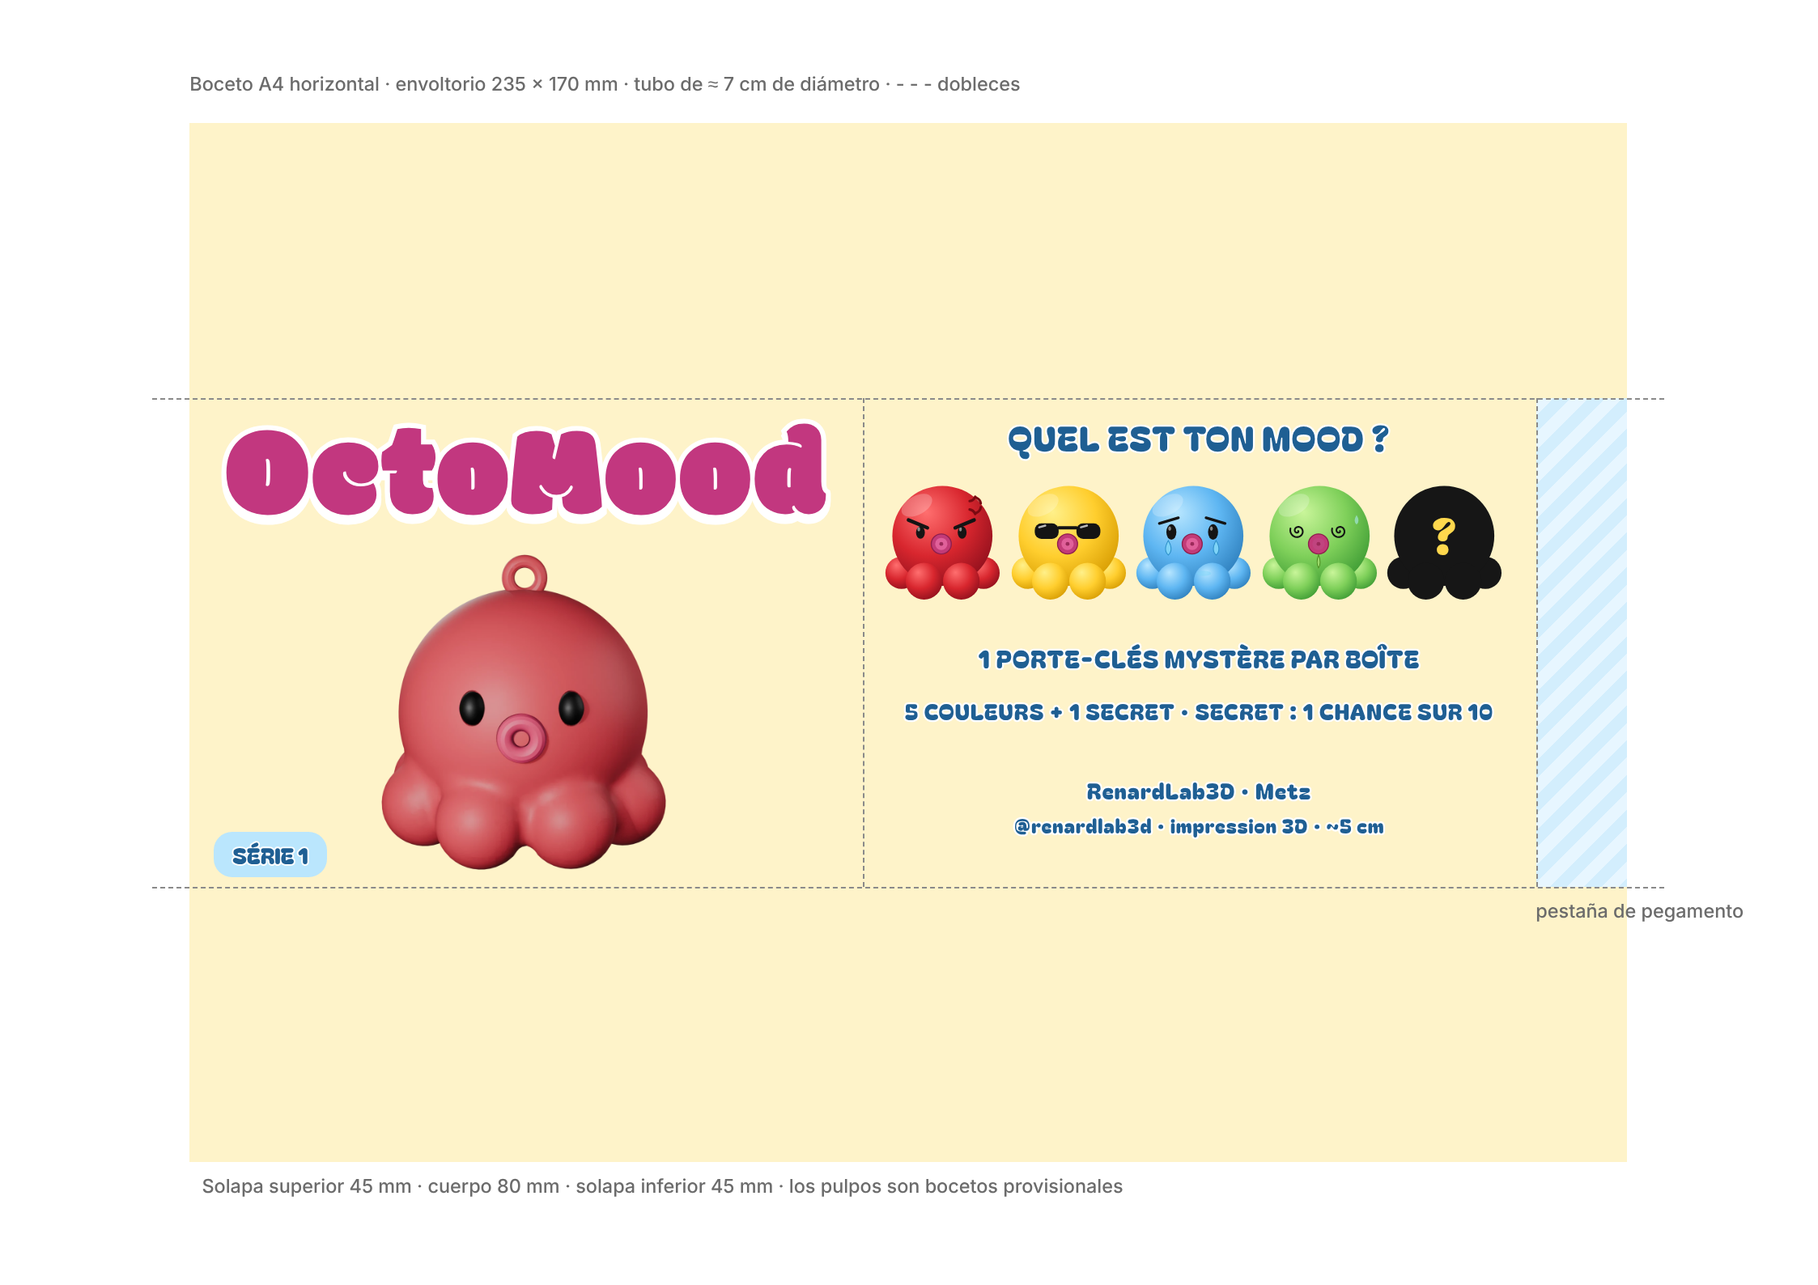
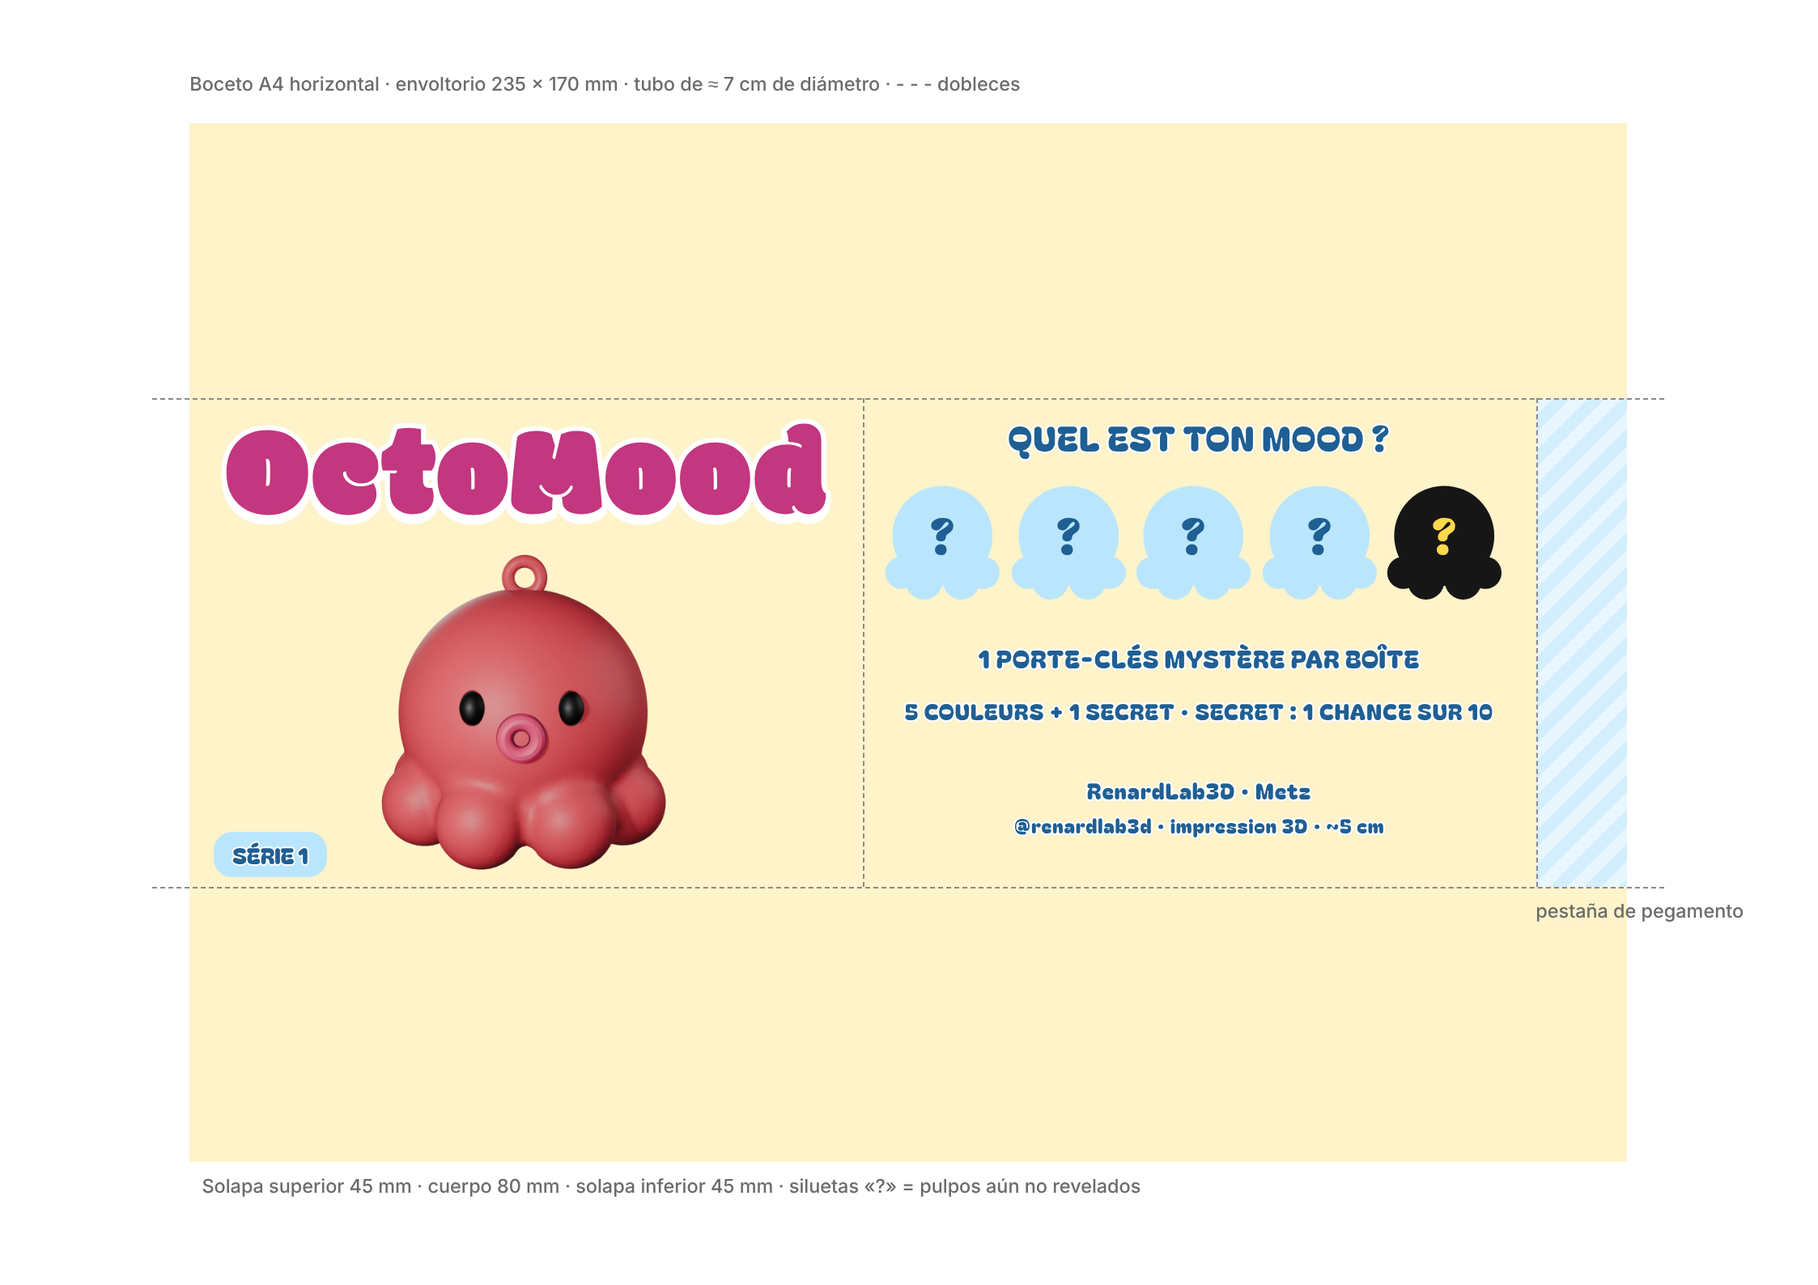
Wrapper: silhouettes for octopuses not yet revealed
Claude-Session: https://claude.ai/code/session_01AQMCNjGQ1RjZg5f4v5YFio

Changed region(s): [[0.4675, 0.3703, 0.7792, 0.4628], [0.561, 0.8948, 0.6233, 0.9257], [0.4363, 0.8948, 0.4987, 0.9257]]

diff --git a/pulpos-mystery-box/diseno/envoltorio-plano.html b/pulpos-mystery-box/diseno/envoltorio-plano.html
@@ -13,4 +13,4 @@ body { font-family: Inter, sans-serif; background: #fff; }
 .foldv { border-left: .3mm dashed #8a8a8a; }
 .bubble { position: absolute; border-radius: 50%; border: .5mm solid rgba(255,255,255,.9); background: rgba(255,255,255,.35); }
 .pill { background: #BAE6FD; color: #1F5F93; -webkit-text-stroke: .5mm #FFFFFF; paint-order: stroke fill; font-family: var(--f); font-size: 3.6mm; padding: 1mm 3mm; border-radius: 3mm; }
-</style><div class="a" style="left:31mm;top:20mm;width:235mm;height:170mm;background:#FEF3C9"></div><div class="a" style="left:251mm;top:65mm;width:15mm;height:80mm;background:repeating-linear-gradient(135deg,#e7f6ff 0 2mm,#d3eefd 2mm 4mm)"></div><div class="a" style="left:31mm;top:65mm;width:110mm;height:80mm"><div class="a pill" style="left:4mm;top:71mm">SÉRIE 1</div><div class="a" style="left:0;top:2mm;width:110mm"><div class="title" style="font-size:21mm">OctoMood</div></div><div class="a panel" style="left:28mm;top:25mm;width:53mm;height:53mm"><img src="pulpos/rosa.png" alt="rosa"></div></div><div class="a" style="left:141mm;top:65mm;width:110mm;height:80mm"><div class="a small" style="left:0;top:3mm;width:110mm;font-size:5.6mm">QUEL EST TON MOOD ?</div><div class="a panel" style="left:3.0mm;top:14mm;width:20mm;height:20mm"><svg viewBox="40 8 440 440" xmlns="http://www.w3.org/2000/svg"><defs><radialGradient id="g4" cx="40%" cy="35%" r="72%" fx="34%" fy="26%"><stop offset="0" stop-color="#FF6F6F"/><stop offset=".55" stop-color="#D8262E"/><stop offset="1" stop-color="#8E0F1C"/></radialGradient><radialGradient id="g5" cx="40%" cy="35%" r="72%" fx="34%" fy="26%"><stop offset="0" stop-color="#FF6F6F"/><stop offset=".55" stop-color="#D8262E"/><stop offset="1" stop-color="#8E0F1C"/></radialGradient><radialGradient id="g6" cx="40%" cy="35%" r="72%" fx="34%" fy="26%"><stop offset="0" stop-color="#FF6F6F"/><stop offset=".55" stop-color="#D8262E"/><stop offset="1" stop-color="#8E0F1C"/></radialGradient></defs><circle cx="115" cy="328" r="58" fill="url(#g4)"/><circle cx="410" cy="328" r="58" fill="url(#g4)"/><circle cx="262" cy="195" r="180" fill="url(#g5)"/><circle cx="196" cy="358" r="66" fill="url(#g6)"/><circle cx="330" cy="358" r="66" fill="url(#g6)"/><ellipse cx="170" cy="85" rx="60" ry="34" fill="#fff" opacity=".22" transform="rotate(-28 170 85)"/><ellipse cx="183" cy="183" rx="16" ry="22" fill="#151515"/><ellipse cx="333" cy="183" rx="16" ry="22" fill="#151515"/><ellipse cx="177" cy="171" rx="5" ry="8" fill="#fff" opacity=".5"/><ellipse cx="327" cy="171" rx="5" ry="8" fill="#fff" opacity=".5"/><circle cx="258" cy="224" r="36" fill="#C23B78"/><circle cx="258" cy="224" r="36" fill="none" stroke="#8E1F4D" stroke-width="4"/><circle cx="258" cy="224" r="22" fill="#E0609A"/><circle cx="258" cy="224" r="7" fill="#9C2A5A"/><path d="M140 138 L208 166 M376 138 L308 166" stroke="#141414" stroke-width="13" stroke-linecap="round"/><g stroke="#7A0A12" stroke-width="9" fill="none" stroke-linecap="round"><path d="M360 70 q14 -2 20 -16"/><path d="M400 78 q-2 -14 -16 -20"/><path d="M360 100 q14 2 20 16"/><path d="M400 92 q-2 14 -16 20"/></g></svg></div><div class="a panel" style="left:23.5mm;top:14mm;width:20mm;height:20mm"><svg viewBox="40 8 440 440" xmlns="http://www.w3.org/2000/svg"><defs><radialGradient id="g7" cx="40%" cy="35%" r="72%" fx="34%" fy="26%"><stop offset="0" stop-color="#FFF08A"/><stop offset=".55" stop-color="#FFCE2E"/><stop offset="1" stop-color="#D69B00"/></radialGradient><radialGradient id="g8" cx="40%" cy="35%" r="72%" fx="34%" fy="26%"><stop offset="0" stop-color="#FFF08A"/><stop offset=".55" stop-color="#FFCE2E"/><stop offset="1" stop-color="#D69B00"/></radialGradient><radialGradient id="g9" cx="40%" cy="35%" r="72%" fx="34%" fy="26%"><stop offset="0" stop-color="#FFF08A"/><stop offset=".55" stop-color="#FFCE2E"/><stop offset="1" stop-color="#D69B00"/></radialGradient></defs><circle cx="115" cy="328" r="58" fill="url(#g7)"/><circle cx="410" cy="328" r="58" fill="url(#g7)"/><circle cx="262" cy="195" r="180" fill="url(#g8)"/><circle cx="196" cy="358" r="66" fill="url(#g9)"/><circle cx="330" cy="358" r="66" fill="url(#g9)"/><ellipse cx="170" cy="85" rx="60" ry="34" fill="#fff" opacity=".22" transform="rotate(-28 170 85)"/><g fill="#141414"><rect x="140" y="150" width="86" height="56" rx="24"/><rect x="290" y="150" width="86" height="56" rx="24"/><rect x="220" y="160" width="76" height="12" rx="6"/></g><path d="M156 164 l22 -6 M306 164 l22 -6" stroke="#fff" stroke-width="7" stroke-linecap="round" opacity=".7"/><circle cx="258" cy="224" r="36" fill="#C23B78"/><circle cx="258" cy="224" r="36" fill="none" stroke="#8E1F4D" stroke-width="4"/><circle cx="258" cy="224" r="22" fill="#E0609A"/><circle cx="258" cy="224" r="7" fill="#9C2A5A"/></svg></div><div class="a panel" style="left:44.0mm;top:14mm;width:20mm;height:20mm"><svg viewBox="40 8 440 440" xmlns="http://www.w3.org/2000/svg"><defs><radialGradient id="g10" cx="40%" cy="35%" r="72%" fx="34%" fy="26%"><stop offset="0" stop-color="#B8E6FF"/><stop offset=".55" stop-color="#5EB6F2"/><stop offset="1" stop-color="#2C7DBB"/></radialGradient><radialGradient id="g11" cx="40%" cy="35%" r="72%" fx="34%" fy="26%"><stop offset="0" stop-color="#B8E6FF"/><stop offset=".55" stop-color="#5EB6F2"/><stop offset="1" stop-color="#2C7DBB"/></radialGradient><radialGradient id="g12" cx="40%" cy="35%" r="72%" fx="34%" fy="26%"><stop offset="0" stop-color="#B8E6FF"/><stop offset=".55" stop-color="#5EB6F2"/><stop offset="1" stop-color="#2C7DBB"/></radialGradient></defs><circle cx="115" cy="328" r="58" fill="url(#g10)"/><circle cx="410" cy="328" r="58" fill="url(#g10)"/><circle cx="262" cy="195" r="180" fill="url(#g11)"/><circle cx="196" cy="358" r="66" fill="url(#g12)"/><circle cx="330" cy="358" r="66" fill="url(#g12)"/><ellipse cx="170" cy="85" rx="60" ry="34" fill="#fff" opacity=".22" transform="rotate(-28 170 85)"/><ellipse cx="183" cy="181" rx="18" ry="28" fill="#151515"/><ellipse cx="333" cy="181" rx="18" ry="28" fill="#151515"/><ellipse cx="177" cy="169" rx="5" ry="8" fill="#fff" opacity=".5"/><ellipse cx="327" cy="169" rx="5" ry="8" fill="#fff" opacity=".5"/><circle cx="258" cy="224" r="36" fill="#C23B78"/><circle cx="258" cy="224" r="36" fill="none" stroke="#8E1F4D" stroke-width="4"/><circle cx="258" cy="224" r="22" fill="#E0609A"/><circle cx="258" cy="224" r="7" fill="#9C2A5A"/><path d="M140 150 L208 130 M376 150 L308 130" stroke="#141414" stroke-width="10" stroke-linecap="round"/><path d="M172 212 q-20 34 0 52 q20 -18 0 -52z" fill="#7ED3F7" stroke="#2D8FC9" stroke-width="3"/><path d="M344 212 q-20 34 0 52 q20 -18 0 -52z" fill="#7ED3F7" stroke="#2D8FC9" stroke-width="3"/><ellipse cx="300" cy="330" rx="26" ry="9" fill="#7ED3F7" opacity=".5"/></svg></div><div class="a panel" style="left:64.5mm;top:14mm;width:20mm;height:20mm"><svg viewBox="40 8 440 440" xmlns="http://www.w3.org/2000/svg"><defs><radialGradient id="g13" cx="40%" cy="35%" r="72%" fx="34%" fy="26%"><stop offset="0" stop-color="#C9F59A"/><stop offset=".55" stop-color="#7FD05A"/><stop offset="1" stop-color="#3C9A33"/></radialGradient><radialGradient id="g14" cx="40%" cy="35%" r="72%" fx="34%" fy="26%"><stop offset="0" stop-color="#C9F59A"/><stop offset=".55" stop-color="#7FD05A"/><stop offset="1" stop-color="#3C9A33"/></radialGradient><radialGradient id="g15" cx="40%" cy="35%" r="72%" fx="34%" fy="26%"><stop offset="0" stop-color="#C9F59A"/><stop offset=".55" stop-color="#7FD05A"/><stop offset="1" stop-color="#3C9A33"/></radialGradient></defs><circle cx="115" cy="328" r="58" fill="url(#g13)"/><circle cx="410" cy="328" r="58" fill="url(#g13)"/><circle cx="262" cy="195" r="180" fill="url(#g14)"/><circle cx="196" cy="358" r="66" fill="url(#g15)"/><circle cx="330" cy="358" r="66" fill="url(#g15)"/><ellipse cx="170" cy="85" rx="60" ry="34" fill="#fff" opacity=".22" transform="rotate(-28 170 85)"/><path d="M185.0 177.0 L185.6 177.7 L185.9 178.6 L185.9 179.7 L185.5 180.9 L184.7 182.0 L183.4 182.9 L181.8 183.4 L180.0 183.5 L178.1 183.1 L176.2 182.1 L174.5 180.5 L173.3 178.4 L172.6 175.9 L172.6 173.1 L173.4 170.3 L174.9 167.6 L177.2 165.3 L180.1 163.6 L183.5 162.7 L187.3 162.6 L191.0 163.6 L194.6 165.5 L197.6 168.4 L199.9 172.1 L201.2 176.4 L201.5 181.1 L200.5 185.8 L198.2 190.3 L194.8 194.2 L190.5 197.2 L185.3 199.0 L179.7 199.6 L174.0 198.6 L168.5 196.2 L163.7 192.5 L159.9 187.5 L157.3 181.5 L156.4 175.0 L157.1 168.3" stroke="#141414" stroke-width="6" fill="none" stroke-linecap="round" stroke-linejoin="round"/><path d="M335.0 177.0 L335.6 177.7 L335.9 178.6 L335.9 179.7 L335.5 180.9 L334.7 182.0 L333.4 182.9 L331.8 183.4 L330.0 183.5 L328.1 183.1 L326.2 182.1 L324.5 180.5 L323.3 178.4 L322.6 175.9 L322.6 173.1 L323.4 170.3 L324.9 167.6 L327.2 165.3 L330.1 163.6 L333.5 162.7 L337.3 162.6 L341.0 163.6 L344.6 165.5 L347.6 168.4 L349.9 172.1 L351.2 176.4 L351.5 181.1 L350.5 185.8 L348.2 190.3 L344.8 194.2 L340.5 197.2 L335.3 199.0 L329.7 199.6 L324.0 198.6 L318.5 196.2 L313.7 192.5 L309.9 187.5 L307.3 181.5 L306.4 175.0 L307.1 168.3" stroke="#141414" stroke-width="6" fill="none" stroke-linecap="round" stroke-linejoin="round"/><circle cx="258" cy="224" r="36" fill="#C23B78"/><circle cx="258" cy="224" r="36" fill="none" stroke="#8E1F4D" stroke-width="4"/><circle cx="258" cy="224" r="22" fill="#C0447F"/><circle cx="258" cy="224" r="7" fill="#9C2A5A"/><path d="M258 262 q-10 30 0 48 q12 -16 0 -48z" fill="#9BD86B" stroke="#4E8F23" stroke-width="3"/><path d="M395 120 q-14 22 0 34 q14 -12 0 -34z" fill="#9BE0C6" opacity=".8"/></svg></div><div class="a panel" style="left:85.0mm;top:14mm;width:20mm;height:20mm"><svg viewBox="40 8 440 440" xmlns="http://www.w3.org/2000/svg"><g fill="#161616"><circle cx="115" cy="328" r="58"/><circle cx="410" cy="328" r="58"/><circle cx="262" cy="195" r="180"/><circle cx="196" cy="358" r="66"/><circle cx="330" cy="358" r="66"/></g><text x="262" y="262" text-anchor="middle" font-family="Bagel Fat One" font-size="170" fill="#FFD84D">?</text></svg></div><div class="a panel" style="left:30mm;top:36mm;width:0;height:0"></div><div class="a small" style="left:6mm;top:40mm;width:98mm;font-size:4mm">1 PORTE-CLÉS MYSTÈRE PAR BOÎTE</div><div class="a small" style="left:6mm;top:49mm;width:98mm;font-size:3.6mm">5 COULEURS + 1 SECRET · SECRET : 1 CHANCE SUR 10</div><div class="a small" style="left:6mm;top:62mm;width:98mm;font-size:3.6mm">RenardLab3D · Metz</div><div class="a small" style="left:6mm;top:68mm;width:98mm;font-size:3.2mm">@renardlab3d · impression 3D · ~5 cm</div></div><div class="a fold" style="left:25mm;top:65mm;width:247mm"></div><div class="a fold" style="left:25mm;top:145mm;width:247mm"></div><div class="a foldv" style="left:141mm;top:65mm;height:80mm"></div><div class="a foldv" style="left:251mm;top:65mm;height:80mm"></div><div class="a note" style="left:31mm;top:12mm">Boceto A4 horizontal · envoltorio 235 × 170 mm · tubo de ≈ 7 cm de diámetro · - - - dobleces</div><div class="a note" style="left:251mm;top:147mm">pestaña de pegamento</div><div class="a note" style="left:33mm;top:192mm">Solapa superior 45 mm · cuerpo 80 mm · solapa inferior 45 mm · los pulpos son bocetos provisionales</div></div>
+</style><div class="a" style="left:31mm;top:20mm;width:235mm;height:170mm;background:#FEF3C9"></div><div class="a" style="left:251mm;top:65mm;width:15mm;height:80mm;background:repeating-linear-gradient(135deg,#e7f6ff 0 2mm,#d3eefd 2mm 4mm)"></div><div class="a" style="left:31mm;top:65mm;width:110mm;height:80mm"><div class="a pill" style="left:4mm;top:71mm">SÉRIE 1</div><div class="a" style="left:0;top:2mm;width:110mm"><div class="title" style="font-size:21mm">OctoMood</div></div><div class="a panel" style="left:28mm;top:25mm;width:53mm;height:53mm"><img src="pulpos/rosa.png" alt="rosa"></div></div><div class="a" style="left:141mm;top:65mm;width:110mm;height:80mm"><div class="a small" style="left:0;top:3mm;width:110mm;font-size:5.6mm">QUEL EST TON MOOD ?</div><div class="a panel" style="left:3.0mm;top:14mm;width:20mm;height:20mm"><svg viewBox="40 8 440 440" xmlns="http://www.w3.org/2000/svg"><g fill="#BAE6FD"><circle cx="115" cy="328" r="58"/><circle cx="410" cy="328" r="58"/><circle cx="262" cy="195" r="180"/><circle cx="196" cy="358" r="66"/><circle cx="330" cy="358" r="66"/></g><text x="262" y="262" text-anchor="middle" font-family="Bagel Fat One" font-size="170" fill="#1F5F93">?</text></svg></div><div class="a panel" style="left:23.5mm;top:14mm;width:20mm;height:20mm"><svg viewBox="40 8 440 440" xmlns="http://www.w3.org/2000/svg"><g fill="#BAE6FD"><circle cx="115" cy="328" r="58"/><circle cx="410" cy="328" r="58"/><circle cx="262" cy="195" r="180"/><circle cx="196" cy="358" r="66"/><circle cx="330" cy="358" r="66"/></g><text x="262" y="262" text-anchor="middle" font-family="Bagel Fat One" font-size="170" fill="#1F5F93">?</text></svg></div><div class="a panel" style="left:44.0mm;top:14mm;width:20mm;height:20mm"><svg viewBox="40 8 440 440" xmlns="http://www.w3.org/2000/svg"><g fill="#BAE6FD"><circle cx="115" cy="328" r="58"/><circle cx="410" cy="328" r="58"/><circle cx="262" cy="195" r="180"/><circle cx="196" cy="358" r="66"/><circle cx="330" cy="358" r="66"/></g><text x="262" y="262" text-anchor="middle" font-family="Bagel Fat One" font-size="170" fill="#1F5F93">?</text></svg></div><div class="a panel" style="left:64.5mm;top:14mm;width:20mm;height:20mm"><svg viewBox="40 8 440 440" xmlns="http://www.w3.org/2000/svg"><g fill="#BAE6FD"><circle cx="115" cy="328" r="58"/><circle cx="410" cy="328" r="58"/><circle cx="262" cy="195" r="180"/><circle cx="196" cy="358" r="66"/><circle cx="330" cy="358" r="66"/></g><text x="262" y="262" text-anchor="middle" font-family="Bagel Fat One" font-size="170" fill="#1F5F93">?</text></svg></div><div class="a panel" style="left:85.0mm;top:14mm;width:20mm;height:20mm"><svg viewBox="40 8 440 440" xmlns="http://www.w3.org/2000/svg"><g fill="#161616"><circle cx="115" cy="328" r="58"/><circle cx="410" cy="328" r="58"/><circle cx="262" cy="195" r="180"/><circle cx="196" cy="358" r="66"/><circle cx="330" cy="358" r="66"/></g><text x="262" y="262" text-anchor="middle" font-family="Bagel Fat One" font-size="170" fill="#FFD84D">?</text></svg></div><div class="a panel" style="left:30mm;top:36mm;width:0;height:0"></div><div class="a small" style="left:6mm;top:40mm;width:98mm;font-size:4mm">1 PORTE-CLÉS MYSTÈRE PAR BOÎTE</div><div class="a small" style="left:6mm;top:49mm;width:98mm;font-size:3.6mm">5 COULEURS + 1 SECRET · SECRET : 1 CHANCE SUR 10</div><div class="a small" style="left:6mm;top:62mm;width:98mm;font-size:3.6mm">RenardLab3D · Metz</div><div class="a small" style="left:6mm;top:68mm;width:98mm;font-size:3.2mm">@renardlab3d · impression 3D · ~5 cm</div></div><div class="a fold" style="left:25mm;top:65mm;width:247mm"></div><div class="a fold" style="left:25mm;top:145mm;width:247mm"></div><div class="a foldv" style="left:141mm;top:65mm;height:80mm"></div><div class="a foldv" style="left:251mm;top:65mm;height:80mm"></div><div class="a note" style="left:31mm;top:12mm">Boceto A4 horizontal · envoltorio 235 × 170 mm · tubo de ≈ 7 cm de diámetro · - - - dobleces</div><div class="a note" style="left:251mm;top:147mm">pestaña de pegamento</div><div class="a note" style="left:33mm;top:192mm">Solapa superior 45 mm · cuerpo 80 mm · solapa inferior 45 mm · siluetas «?» = pulpos aún no revelados</div></div>

diff --git a/pulpos-mystery-box/diseno/gen_envoltorio.py b/pulpos-mystery-box/diseno/gen_envoltorio.py
@@ -18,12 +18,12 @@ def grad(hi, mid, lo):
     _n[0] += 1; gid = f"g{_n[0]}"
     return gid, f'<radialGradient id="{gid}" cx="40%" cy="35%" r="72%" fx="34%" fy="26%"><stop offset="0" stop-color="{hi}"/><stop offset=".55" stop-color="{mid}"/><stop offset="1" stop-color="{lo}"/></radialGradient>'
 
-def octo(hi, mid, lo, face="normal", rainbow=False, silhouette=False):
+def octo(hi, mid, lo, face="normal", rainbow=False, silhouette=False, sil="#161616", q=None):
     """Pulpo provisional; coordenadas del render original, viewBox 40 8 440 440."""
     defs, fill = "", {}
     if silhouette:
-        body = '<g fill="#161616">' + ''.join(f'<circle cx="{x}" cy="{y}" r="{r}"/>' for x, y, r in [(115, 328, 58), (410, 328, 58), (262, 195, 180), (196, 358, 66), (330, 358, 66)]) + '</g>'
-        q = f'<text x="262" y="262" text-anchor="middle" font-family="Bagel Fat One" font-size="170" fill="{YEL}">?</text>'
+        body = f'<g fill="{sil}">' + ''.join(f'<circle cx="{x}" cy="{y}" r="{r}"/>' for x, y, r in [(115, 328, 58), (410, 328, 58), (262, 195, 180), (196, 358, 66), (330, 358, 66)]) + '</g>'
+        q = f'<text x="262" y="262" text-anchor="middle" font-family="Bagel Fat One" font-size="170" fill="{q or YEL}">?</text>'
         return f'<svg viewBox="40 8 440 440" xmlns="http://www.w3.org/2000/svg">{body}{q}</svg>'
     parts = {}
     for k in ("side", "dome", "front"):
@@ -78,6 +78,7 @@ BLUE_O = octo("#B8E6FF", "#5EB6F2", "#2C7DBB", "sad")
 GREEN  = octo("#C9F59A", "#7FD05A", "#3C9A33", "sick")
 RAIN   = octo("", "", "", "wave", rainbow=True)
 SIL    = octo("", "", "", silhouette=True)
+SILQ   = octo("", "", "", silhouette=True, sil="#BAE6FD", q="#1F5F93")  # aún no revelado: silueta azul clara con «?»
 
 def pulpo(name, vector):
     """Usa pulpos/<name>.png (render real, fondo transparente) si existe; si no, el dibujo provisional."""
@@ -128,7 +129,8 @@ def flat(name):
     bx = X0 + 110
     h += f'<div class="a" style="left:{bx}mm;top:{Y0+45}mm;width:110mm;height:80mm">'
     h += f'<div class="a small" style="left:0;top:3mm;width:110mm;font-size:5.6mm">QUEL EST TON MOOD ?</div>'
-    row = [RED, YELLOW, BLUE_O, GREEN, SIL]
+    def rev(n, o): return o if os.path.exists(os.path.join(OUT, "pulpos", n + ".png")) else SILQ  # sin render real = silueta
+    row = [rev("rojo", RED), rev("amarillo", YELLOW), rev("azul", BLUE_O), rev("verde", GREEN), SIL]
     for i, o in enumerate(row):
         h += f'<div class="a panel" style="left:{3+i*20.5}mm;top:14mm;width:20mm;height:20mm">{o}</div>'
     h += f'<div class="a panel" style="left:30mm;top:36mm;width:0;height:0"></div>'
@@ -141,7 +143,7 @@ def flat(name):
     h += f'<div class="a foldv" style="left:{X0+110}mm;top:{Y0+45}mm;height:80mm"></div><div class="a foldv" style="left:{X0+220}mm;top:{Y0+45}mm;height:80mm"></div>'
     h += f'<div class="a note" style="left:{X0}mm;top:{Y0-8}mm">Boceto A4 horizontal · envoltorio 235 × 170 mm · tubo de ≈ 7 cm de diámetro · - - - dobleces</div>'
     h += f'<div class="a note" style="left:{X0+220}mm;top:{Y0+127}mm">pestaña de pegamento</div>'
-    h += f'<div class="a note" style="left:{X0+2}mm;top:{Y0+172}mm">Solapa superior 45 mm · cuerpo 80 mm · solapa inferior 45 mm · los pulpos son bocetos provisionales</div>'
+    h += f'<div class="a note" style="left:{X0+2}mm;top:{Y0+172}mm">Solapa superior 45 mm · cuerpo 80 mm · solapa inferior 45 mm · siluetas «?» = pulpos aún no revelados</div>'
     return h + '</div>'
 
 def front(name, label):

diff --git a/pulpos-mystery-box/CONCEPTO.md b/pulpos-mystery-box/CONCEPTO.md
@@ -100,3 +100,7 @@ Fotos de ambiente: arena de playa con agua desenfocada y fondo marino turquesa c
 - **Relieve solo blanco**, plano (sin burbujas ni degradados de fondo). Sin negro salvo la silueta del secreto (con «?» amarillo).
 - Alternativas: B = fondo azul claro + etiqueta amarilla `#FFD84D`; C = fondo amarillo + título azul + etiqueta rosa. Variables: `BG`, `TT`, `TX`, `PILL`, `PILLTX`.
 - Un fondo claro gasta mucha menos tinta que el azul sólido.
+
+## Renders reales y siluetas (21/11/2026)
+- `diseno/pulpos/rosa.png` ya es el render real de Blender (PNG transparente 2000 px, recortado). El color rosa del render se mantiene.
+- En la contraportada, los pulpos **sin render real** se muestran como **silueta azul clara con «?» azul**; el secreto sigue en negro con «?» amarillo. Al guardar `rojo.png`, `amarillo.png`, `azul.png` o `verde.png` en `diseno/pulpos/`, la silueta se sustituye sola.
